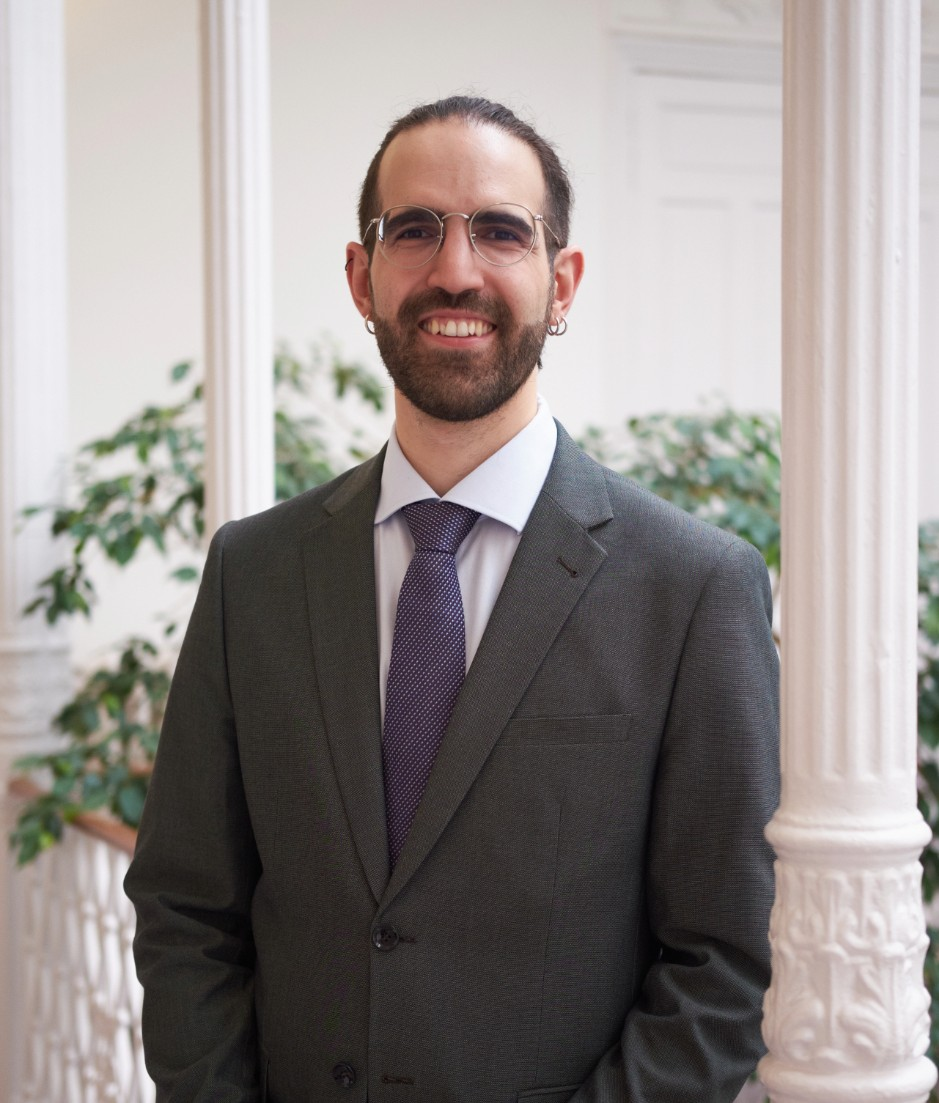
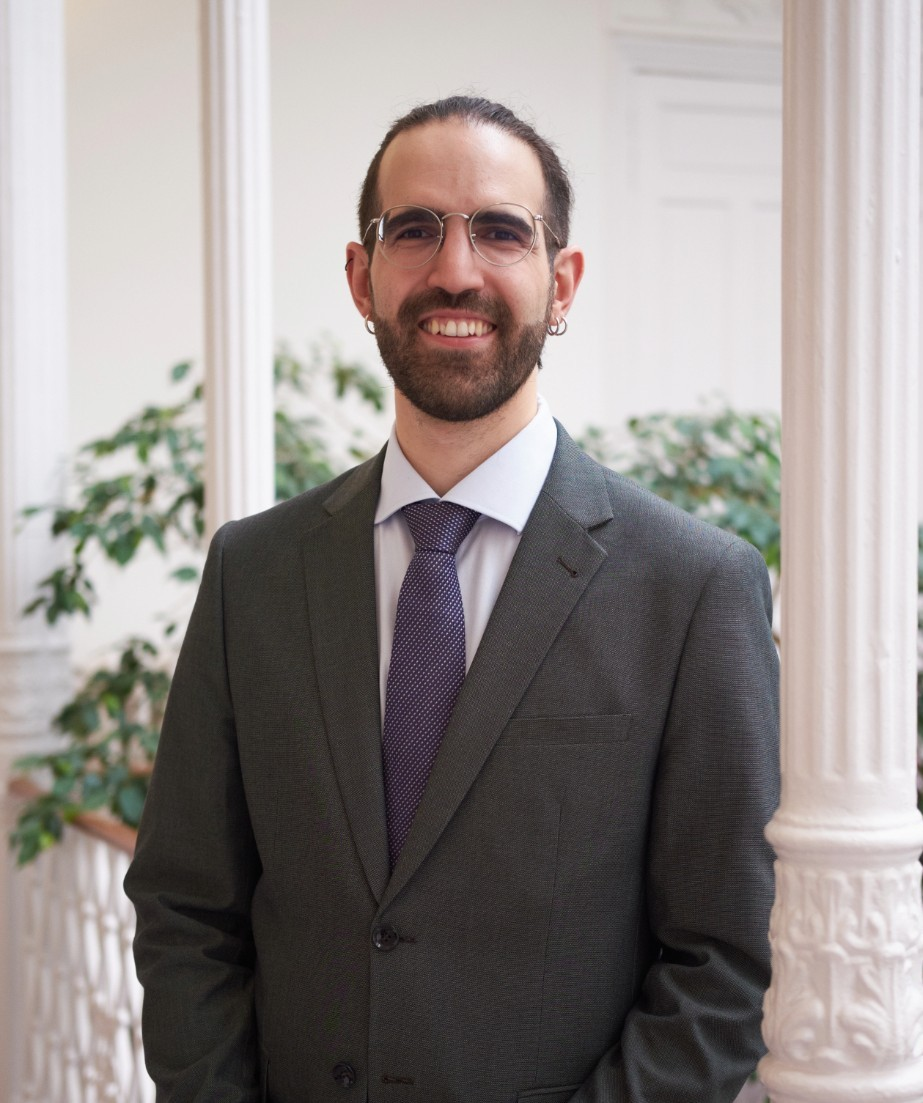
adapt links color

diff --git a/public/css/hyde.css b/public/css/hyde.css
@@ -426,7 +426,7 @@ a.sidebar-nav-item:active {
 }
 .theme-base-mygreen .content a,
 .theme-base-mygreen .related-posts li a:hover {
-  color: #4A5D4E;
+  color: #3D7A66;
 }
 
 /* Red */

diff --git a/index.md b/index.md
@@ -55,7 +55,7 @@ text-align: justify
   <dd class="indented"><p><i>with <a href="https://www.uu.se/en/contact-and-organisation/staff?query=N22-1508" target="_blank">Ricard Grebol</a>.</i></p>
   <!-- <a class="paper" href="papers/XXX.pdf" target="_blank" rel="noopener noreferrer">
   <i class="fa-solid fa-file" aria-hidden="true"></i><span>Draft</span></a> -->
-  <span style="color: var(--bs-link-color, #b2433f);">Draft coming soon!</span>
+  <span style="color: var(--bs-link-color, #3D7A66);">Draft coming soon!</span>
   <br/>
   <p>
   After the Spanish Civil War (1936–1939), the Francoist regime launched a political purge of the teaching workforce to ensure ideological conformity.
